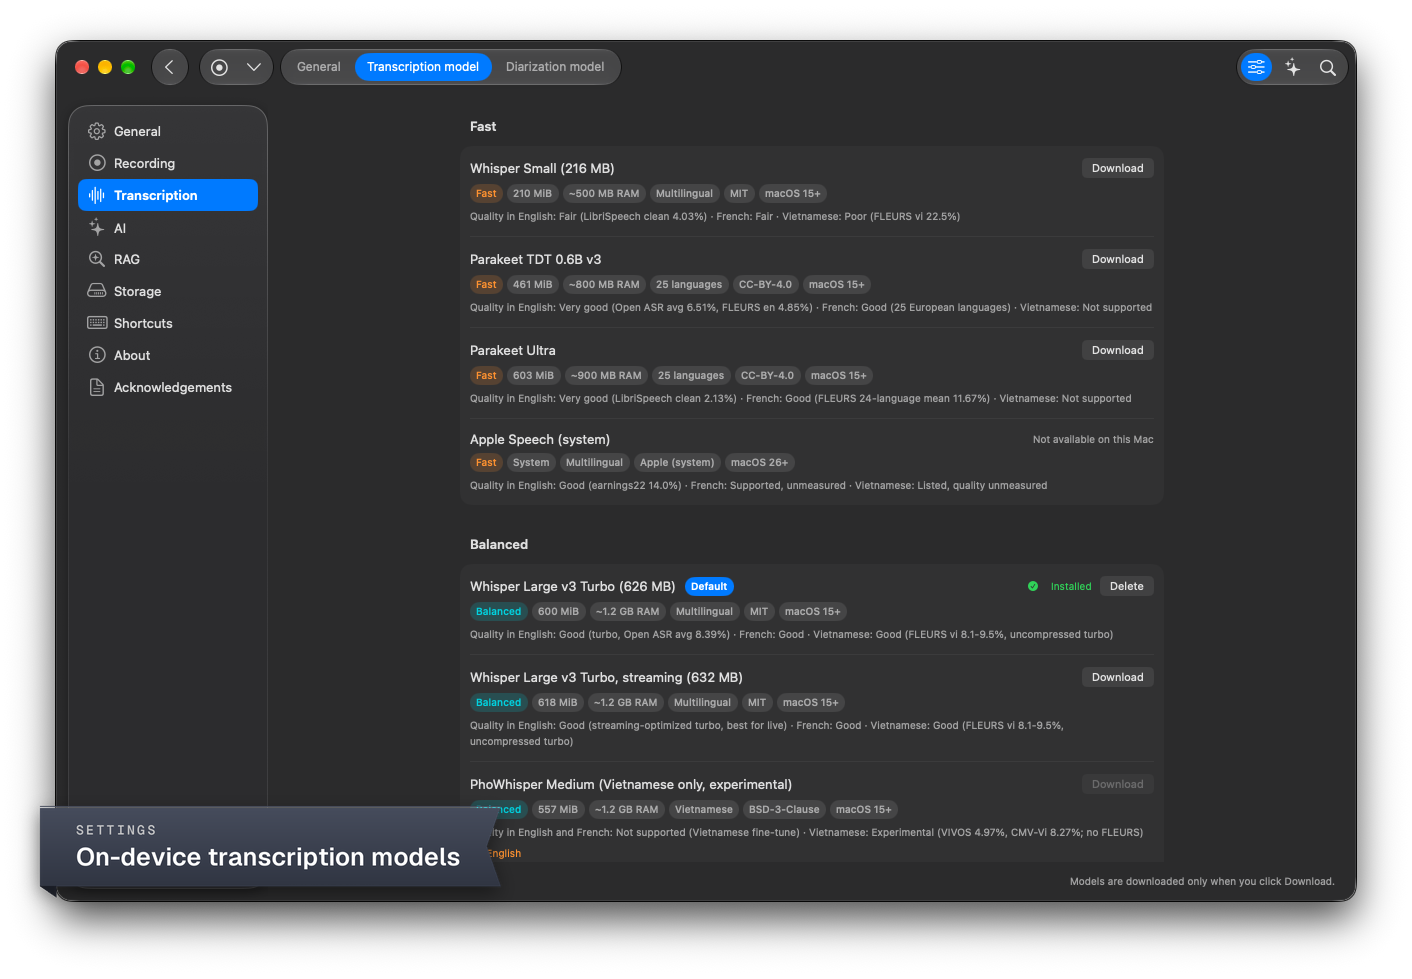
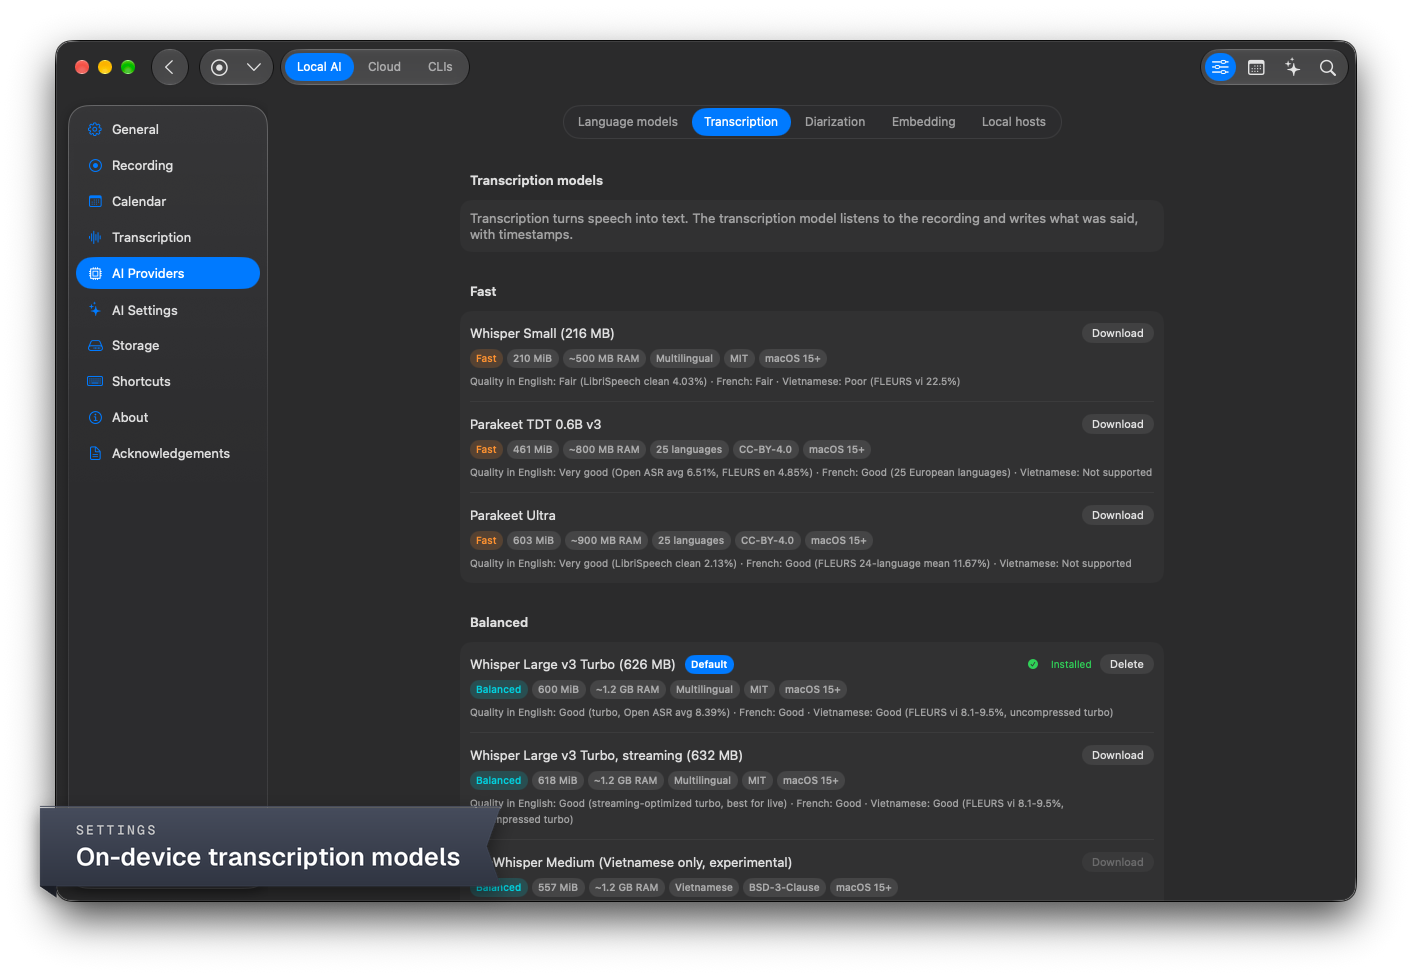
docs(website): re-capture the Settings screenshot after the Settings reorganisation

diff --git a/website/index.html b/website/index.html
@@ -121,7 +121,7 @@
           <button class="shot" type="button" data-zoom aria-label="View screenshot full screen">
             <img
               src="screenshots/echodiar_s_2.webp"
-              alt="EchoDiar Settings, Transcription model tab, with on-device Whisper and Parakeet models and the installed default model"
+              alt="EchoDiar Settings, AI Providers, Local AI, Transcription: on-device Whisper and Parakeet models and the installed default model"
               width="1412"
               height="979"
               loading="lazy"
